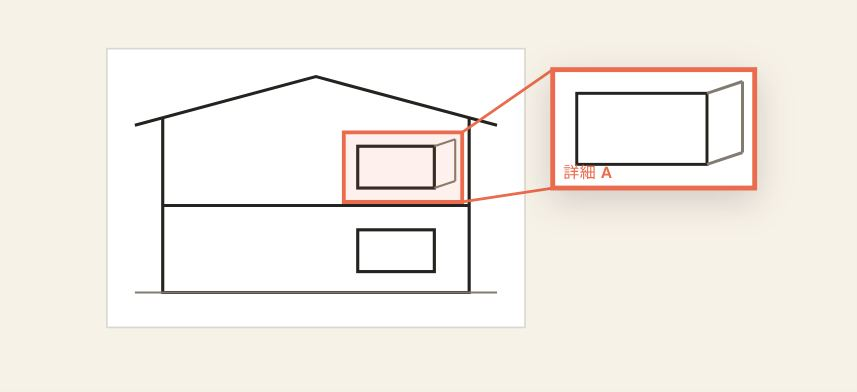
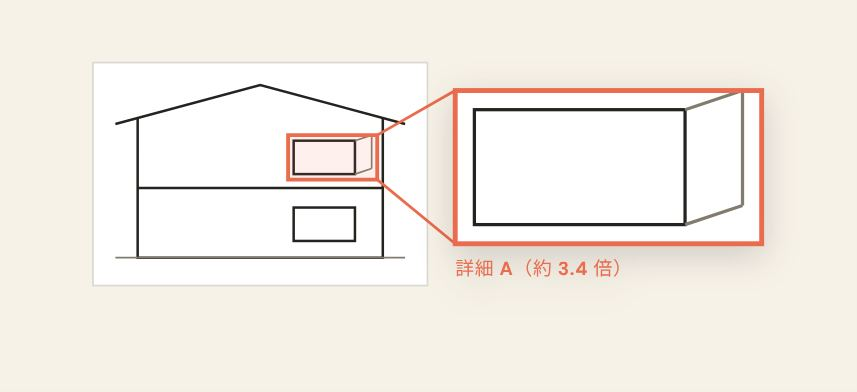
D03 詳細の小窓：小窓を大きくする（元の図の約 3.4 倍）
元の図を 0.8 倍で左に寄せ、右の空きに 88×44 の小窓を開く。囲む範囲を窓まわりに絞り、見出しは小窓の下へ。

Claude-Session: https://claude.ai/code/session_01VCgd4bt3QxAx6uUzWaKxAk

Changed region(s): [[0.091, 0.1224, 0.9102, 0.8265], [0.3944, 0.2143, 0.4551, 0.2449]]

diff --git a/src/main.ts b/src/main.ts
@@ -920,12 +920,16 @@ const diagramScenes: Record<string, string> = {
       <g class="dg-box b5"><rect x="156" y="96" width="36" height="14" rx="3" /><text x="174" y="106">確認</text></g>
     </svg>`,
   /* 図・囲み・引き出し線・小窓を 1 つの SVG（200×112）に置き、舞台の縦横比が変わってもずれないようにする */
+  /*
+   * 元の図は 0.8 倍で左に置き（96×64）、右の空きに小窓（88×44）を開く。
+   * 囲みは図の (70, 26)〜(102, 42) ＝ 画面上で 25.6×12.8 → 小窓は約 3.4 倍
+   */
   detailinset: `<svg class="dg-detail" viewBox="0 0 200 112" aria-hidden="true">
-      <rect class="dg-paper" x="8" y="14" width="120" height="80" />
-      <g class="dg-draw" transform="translate(8 14)">${dgDrawing}</g>
-      <rect class="dg-region" pathLength="1" x="76" y="38" width="34" height="20" />
-      <path class="dg-leader" pathLength="1" d="M110 38 L136 20" /><path class="dg-leader" pathLength="1" d="M110 58 L136 54" />
-      <g class="dg-inset"><rect class="dg-inset-bg" x="136" y="20" width="58" height="34" /><svg class="dg-draw" x="136" y="20" width="58" height="34" viewBox="68 24 34 20">${dgDrawing}</svg><rect class="dg-inset-frame" x="136" y="20" width="58" height="34" /><text x="139" y="51">詳細 A</text></g>
+      <rect class="dg-paper" x="4" y="18" width="96" height="64" />
+      <g class="dg-draw" transform="translate(4 18) scale(.8)">${dgDrawing}</g>
+      <rect class="dg-region" pathLength="1" x="60" y="38.8" width="25.6" height="12.8" />
+      <path class="dg-leader" pathLength="1" d="M85.6 38.8 L108 26" /><path class="dg-leader" pathLength="1" d="M85.6 51.6 L108 70" />
+      <g class="dg-inset"><rect class="dg-inset-bg" x="108" y="26" width="88" height="44" /><svg class="dg-draw" x="108" y="26" width="88" height="44" viewBox="70 26 32 16">${dgDrawing}</svg><rect class="dg-inset-frame" x="108" y="26" width="88" height="44" /><text x="108" y="79">詳細 A（約 3.4 倍）</text></g>
     </svg>`,
   stepswap: `<span class="dg-steps">${[1, 2, 3, 4].map((step) => `<i style="--s:${step}">${step}</i>`).join('')}<b class="dg-step-name"><span>基礎</span><span>躯体</span><span>外装</span><span>完成</span></b></span>
     <svg class="dg-build" viewBox="0 0 120 70" aria-hidden="true">

diff --git a/src/recipes.ts b/src/recipes.ts
@@ -908,11 +908,11 @@ const step = (p) => el.textContent = [...target].map((c, i) => i < p * target.le
     prompt: 'A flowchart animation: lines draw out from a start box, split into two process boxes, then merge into one box; a small dot shuttles back and forth to a confirmation box, clean diagram style',
   },
   D03: {
-    css: `/* 囲み → 引き出し線 → 小窓。小窓は元の図を viewBox で切り取った SVG（同じ図を拡大して入れる） */
+    css: `/* 囲み → 引き出し線 → 小窓。小窓は元の図を viewBox で切り取った SVG（同じ図を約 3.4 倍で入れる） */
 .region, .leader { stroke-dasharray: 1; }
 .region { animation: draw .5s .15s both; } .leader { animation: draw .35s .7s both; }
 @keyframes draw { from { stroke-dashoffset: 1; } }
-.inset { transform-origin: 110px 48px; animation: open .5s .95s cubic-bezier(.2,.8,.2,1) both; }
+.inset { transform-origin: 85.6px 45px; /* 拡大率は、元の図の 1.5 倍以上（ここでは約 3.4 倍）にすると詳細として読みやすい */ animation: open .5s .95s cubic-bezier(.2,.8,.2,1) both; }
 @keyframes open { from { opacity: 0; transform: scale(.3); } }`,
     edit: 'After Effects：図のコンポジションを複製し、スケールを上げて範囲だけをマスクで切り抜いた小窓を作る（元の図と同じ素材なので、図を直すと小窓も変わる）。囲みと引き出し線は「パスのトリミング」で描き、小窓は囲みの位置を基準に、スケール 30→100% と不透明度で開く。Premiere Pro では、同じ画像を上のトラックに重ね、「クロップ」とスケールで小窓にする',
     powerpoint: '図の画像を複製してトリミングし、拡大して小窓にする（枠線を付ける）。囲みの四角形に開始効果「ワイプ」、引き出し線に「ワイプ」、小窓に開始効果「ズーム」（オブジェクトの中心）を「直前の動作の後」で順に。ズームの拡大でよければ、画面切り替え「変形」で元の図から小窓のスライドへ',

diff --git a/src/style.css b/src/style.css
@@ -1900,8 +1900,9 @@ footer a { color: var(--ink); text-decoration: none; font-weight: 600; }
 .dg-scene .dg-detail svg { overflow: hidden; }
 .dg-inset-bg { fill: #fff; }
 .dg-inset-frame { fill: none; stroke: #ea6b4d; stroke-width: 1.4; }
-.dg-inset text { font-size: 4.6px; font-weight: 700; fill: #ea6b4d; letter-spacing: .04em; }
-.dg-inset { filter: drop-shadow(0 3px 5px rgba(37,35,31,.18)); transform-box: view-box; transform-origin: 110px 48px; }
+.dg-inset text { font-size: 5.4px; font-weight: 700; fill: #ea6b4d; letter-spacing: .04em; }
+.dg-inset { filter: drop-shadow(0 3px 5px rgba(37,35,31,.18)); transform-box: view-box; transform-origin: 85.6px 45px; }
+.dg-detail .dg-inset .dg-draw path, .dg-detail .dg-inset .dg-draw rect { stroke-width: .34; }
 .dg-effect-detailinset.is-playing .dg-region { animation: dg-draw .5s .15s cubic-bezier(.4,0,.2,1) both; }
 .dg-effect-detailinset.is-playing .dg-leader { animation: dg-draw .35s .7s cubic-bezier(.4,0,.2,1) both; }
 .dg-effect-detailinset.is-playing .dg-inset { animation: dg-inset .5s .95s cubic-bezier(.2,.8,.2,1) both; }
